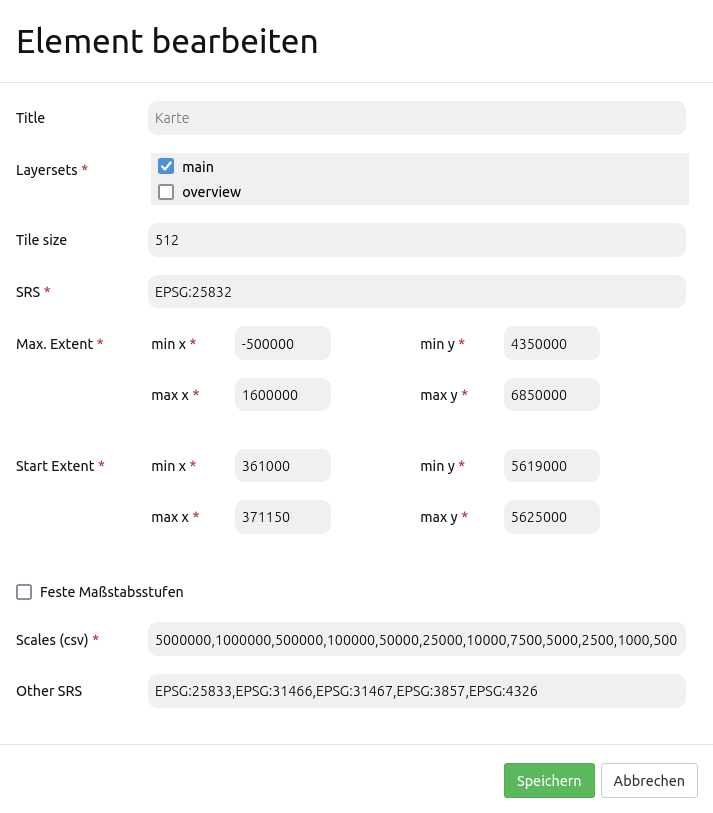
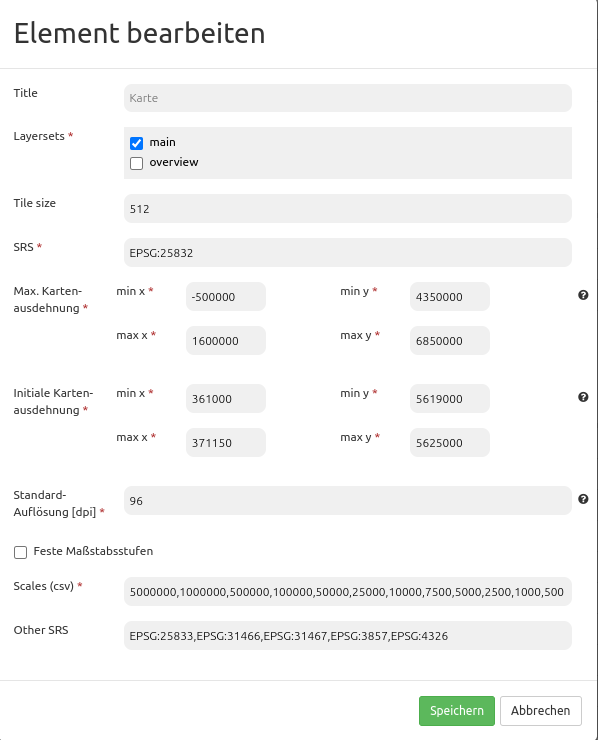
Add default resolution map parameter

diff --git a/de/functions/basic/map.rst b/de/functions/basic/map.rst
@@ -12,14 +12,15 @@ Konfiguration
 =============
 
 .. image:: ../../../figures/de/map_dialog.png
-     :scale: 80
+     :width: 75%
 
 * **Title:** Titel des Elements. Dieser wird in der Layouts-Liste angezeigt. Der Titel wird außerdem neben dem Button angezeigt, wenn "Beschriftung anzeigen" aktiviert ist.
 * **Layersets:** Vorher konfiguriertes Layersets zur Anzeige der Hauptkarte (Thematische Karte, Hintergrundkarte).
 * **Tile size:** Größe der Tiles bei gekachelten Diensten.
 * **SRS:** Koordinatenbezugssystem beim Start der Anwendung ("Spatial Reference System"). Zwei Arten der SRS Definition werden unterstützt: EPSG: CODE oder EPSG:CODE|MEIN SRS TITEL.
-* **Max. Extent:** Maximaler Kartenbereich (BBOX mit min/max x/y, die Ausschnitt definiert).
-* **Start Extent:** Bereich der Karte, der beim Starten der Anwendung angezeigt wird (BBOX mit min/max x/y, die Ausschnitt definiert).
+* **Max. Kartenausdehnung:** Maximaler Kartenbereich (BBOX mit min/max x/y, die Ausschnitt definiert).
+* **Initiale Kartenausdehnung:** Bereich der Karte, der beim Starten der Anwendung angezeigt wird (BBOX mit min/max x/y, die Ausschnitt definiert).
+* **Standard-Auflösung [dpi]:** Die Auflösung passt sich auf Basis dieses Wertes an die Auflösung des verwendeten Gerätes an.
 * **Feste Maßstabsstufen:** Das Zoom-Verhalten wird hierdurch konfiguriert. Feste Maßstabsstufen verbessern die visuelle Qualität von Diensten, welche nur auf bestimmten Maßstäben zwischengespeichert werden. Ist die Einstellung aktiviert, dann können nur Maßstäbe ausgewählt werden, die auch unter *scales* im Folgenden definiert sind (Standard: false).
 * **Scales (csv):** Festgelegte Zoomstufen, die durch Drehen des Mausrads oder bei stufenweisem Zoomen für den Maßstab genutzt werden (werden durch Komma getrennt).
 * **Other SRS:** Weitere auswählbare Projektionen unter denen die Karte angezeigt werden kann (werden durch Komma getrennt). Zwei Arten der SRS Definition werden unterstützt: EPSG:CODE oder EPSG:CODE|MEIN SRS TITEL.
@@ -38,14 +39,17 @@ In der Karte können alle Instanzen angezeigt werden, welche im Layerset enthalt
 .. image:: ../../../figures/de/map_example_layersets.png
      :width: 100%
 
-Damit *Layersets* **(1)** auch in der Karte angezeigt werden, müssen diese im Kartenelement aktiviert werden. Eine Mehrfachauswahl ist hierbei auch möglich. Layersets, welche nicht ausgewählt wurden, können als Overview fungieren. Im Beispiel dient *main* als Haupt- und *overview* als Übersichtskarte.
+Damit *Layersets* auch in der Karte angezeigt werden, müssen diese im Kartenelement aktiviert werden. Eine Mehrfachauswahl ist hierbei auch möglich. Layersets, welche nicht ausgewählt wurden, können als :ref:`overview_de` fungieren. Im Beispiel dient *main* als Haupt- und *overview* als Übersichtskarte.
 
-Das Feld *SRS* **(2)** definiert das Koordinatenreferenzsystem. Im Beispiel ist dies EPSG 25832 bzw. ETRS89/UTM Zone 32N. Wenn andere Referenzsysteme zur Auswahl stehen sollen, werden diese unter *Other SRS* **(7)** angegeben. Im Beispiel umfasst dies: 25833 (ETRS89/UTM Zone 33N), 31466 (DHDN/3-degree Gauss-Krüger Zone 2), 31467 (DHDN/3-degree Gauss-Krüger Zone 3), 3857 (WGS 84/Pseudo-Mercator) und 4326 (WGS 84).
+Im Feld *SRS* muss das Koordinatenreferenzsystem eingetragen werden. Im Beispiel ist dies EPSG:25832 bzw. ETRS89/UTM Zone 32N. Wenn andere Referenzsysteme zur Auswahl stehen sollen, werden diese unter *Other SRS* angegeben. Im Beispiel umfasst dies: EPSG:25833 (ETRS89/UTM Zone 33N), EPSG:31466 (DHDN/3-degree Gauss-Krüger Zone 2), EPSG:31467 (DHDN/3-degree Gauss-Krüger Zone 3), EPSG:3857 (WGS 84/Pseudo-Mercator) und EPSG:4326 (WGS 84).
 
-Weiterhin kann das Feld *Max. Extent* **(3)** definiert werden. Dieses gibt den maximalen sichtbaren Kartenbereich an. Alles was außerhalb dieser Angabe liegt, wird vom Anwender nicht gesehen. Das Feld *Start Extent* **(4)** wiederum definiert den Startbereich, welcher beim Öffnen der Anwendung zu sehen ist. Im Beispiel wird das Stadtgebiet von Bonn angezeigt. Zudem definiert *Scales* **(6)** die unterschiedlichen Zoomstufen in der Anwendung. Zwischen diesen kann mithilfe von dem :ref:`scale_selector_de` oder der :ref:`navigation_toolbar_de` navigiert werden. Feste Maßstabsstufen **(5)** wurden dabei im Beispiel deaktiviert. Das heißt, es ist auch eine Auswahl anderer Maßstäbe über das Mausrad möglich.
+Weiterhin muss das Feld *Max. Kartenausdehnung* definiert werden. Dieses gibt den maximalen sichtbaren Kartenbereich an. Alles was außerhalb dieser Angabe liegt, wird in der Anwendung nicht dargestellt. Das Pflichtfeld *Initiale Kartenausdehnung* wiederum definiert den Startbereich, welcher beim Öffnen der Anwendung zu sehen ist. Im Beispiel wird das Stadtgebiet von Bonn angezeigt.
 
-.. image:: ../../../figures/de/map_example_dialog.png
-     :scale: 80
+Die Standard-Auflösung in dpi definiert die Auflösung des verwendeten Geräts; der zugehörige Standardwert von 96 dpi ist über dieses Feld anpassbar. Falls die dargestellte Auflösung der Karte nicht mit der des WMS-Dienstes übereinstimmt, kann eine Veränderung des Werts helfen, um die Karte passend darzustellen.
+
+.. note:: Hinweis: Die maßstabsabhängige Anzeige funktioniert derzeit nur auf Desktops mit regulärer Auflösung zuverlässig.
+
+Zuletzt definiert *Scales (csv)* die unterschiedlichen Maßstabsstufen in der Anwendung. Zwischen diesen kann mithilfe des :ref:`scale_selector_de` oder der :ref:`navigation_toolbar_de` navigiert werden. Feste Maßstabsstufen wurden dabei im Beispiel deaktiviert, weshalb auch eine Auswahl anderer Maßstäbe über das Mausrad möglich ist.
 
 
 YAML-Definition:

diff --git a/en/functions/basic/map.rst b/en/functions/basic/map.rst
@@ -12,7 +12,7 @@ Configuration
 =============
 
 .. image:: ../../../figures/map_dialog.png
-     :scale: 80
+     :width: 75%
 
 * **Title:** Title of the element. The title will be listed in "Layouts" and allows to distinguish between different buttons. It will be indicated if "Show label" is activated.
 * **Layersets:** Refers to a layerset. Layersets have to be defined first and can then be referred to.
@@ -20,6 +20,7 @@ Configuration
 * **SRS:** Spatial reference system. Two ways of SRS definitions are supported: EPSG:CODE or EPSG:CODE|MY SRS TITLE.
 * **Max. Extent:** Maximal map extent, defined by BBOX parameters.
 * **Start Extent:** Map extent that is visible at application launch. Defined by BBOX parameters.
+* **Default resolution [dpi]**: The default resolution adapts to the screen resolution based on the configured value in dpi.
 * **Fixed zoom steps:** This option activates a zoom behaviour with fixed scales. This is useful to increase visual quality of services that are cached on very particular resolution steps only. When set true, scale denominator snaps to one of the values given in the *scales* option as defined below (default: false).
 * **Scales (csv):** A csv scale list. These scales will be supported in your application if you zoom (e.g. via mouse wheel)
 * **Other SRS:** Other spatial reference systems. Two SRS definitions are supported: EPSG:CODE or EPSG:CODE|MY SRS TITLE.
@@ -38,14 +39,17 @@ The map can entail all instances that are defined in the layerset. The following
 .. image:: ../../../figures/map_example_layersets.png
      :width: 100%
 
-In order to display all *Layersets* **(1)** on the map, they have to be activated. Multiple selections are possible as well. De-selected layersets can function as an overview. In the example, *main* is displayed on the main map and *overview* as an overview map.
+In order to display all *Layersets* on the map, they have to be activated. Multiple selections are possible as well. De-selected layersets can function as an :ref:`overview`. In the example, *main* is displayed on the main map and *overview* as an overview map.
 
-The field *SRS* **(2)** defines the coordinate reference system that is used at application start. In this example, the coordinate reference system EPSG 25832 or ETRS89/UTM Zone 32N was chosen. If the application should support other coordinate systems, simply add those in the *Other SRS* **(7)** field. In this example, the following codes are used: 25833 (ETRS89/UTM Zone 33N), 31466 (DHDN/3-degree Gauss-Kruger Zone 2), 31467 (DHDN/3-degree Gauss-Kruger Zone 3), 3857 (WGS 84/Pseudo-Mercator) and 4326 (WGS 84).
+The field *SRS* defines the coordinate reference system that is used at application start. In this example, the coordinate reference system EPSG:25832 or ETRS89/UTM Zone 32N was chosen. If the application should support other coordinate systems, simply add those in the *Other SRS* field. In this example, the following codes are used: EPSG:25833 (ETRS89/UTM Zone 33N), EPSG:31466 (DHDN/3-degree Gauss-Kruger Zone 2), EPSG:31467 (DHDN/3-degree Gauss-Kruger Zone 3), EPSG:3857 (WGS 84/Pseudo-Mercator) and EPSG:4326 (WGS 84).
 
-The field *max. Extent* **(3)** states the maximum zoomable extent of the map application. If there is data outside of the extent, it cannot be seen by the frontend user. The field *start Extent* **(4)** refers to the extent of the map that is visible when the application is started in the browser (in the example the city of Bonn). Furthermore, the field *scales (csv)* **(6)** defines the scales that are usable in the application. It is possible to switch between the defined scales with :ref:`scale_selector` or :ref:`navigation_toolbar`. *Fixed zoom steps* **(5)** were deactivated in the example. That means it is possible to display undefined zoom levels via mouse scrolling.
+The field *max. Extent* states the maximum zoomable extent of the map application. If there is data outside of the extent, it will not appear in the map. The field *start Extent* refers to the extent of the map that is visible when the application is started in the browser (in this example: the city of Bonn).
 
-.. image:: ../../../figures/map_example_dialog.png
-     :scale: 80
+The *Default resolution* in dpi defines the resolution of the device being used; the corresponding default value of 96 dpi can be adjusted through this field. If the displayed resolution of the map does not match that of the WMS service, changing this value can help to align the map accordingly.
+
+.. note:: The scale-dependent display currently only works reliably on desktops with regular resolution.
+
+Furthermore, the field *scales (csv)* defines the scales that are usable in the application. It is possible to switch between the defined scales with :ref:`scale_selector` or :ref:`navigation_toolbar`. *Fixed zoom steps* were deactivated in the example. That means it is possible to display undefined zoom levels via mouse scrolling.
      
 
 YAML-Definition:
